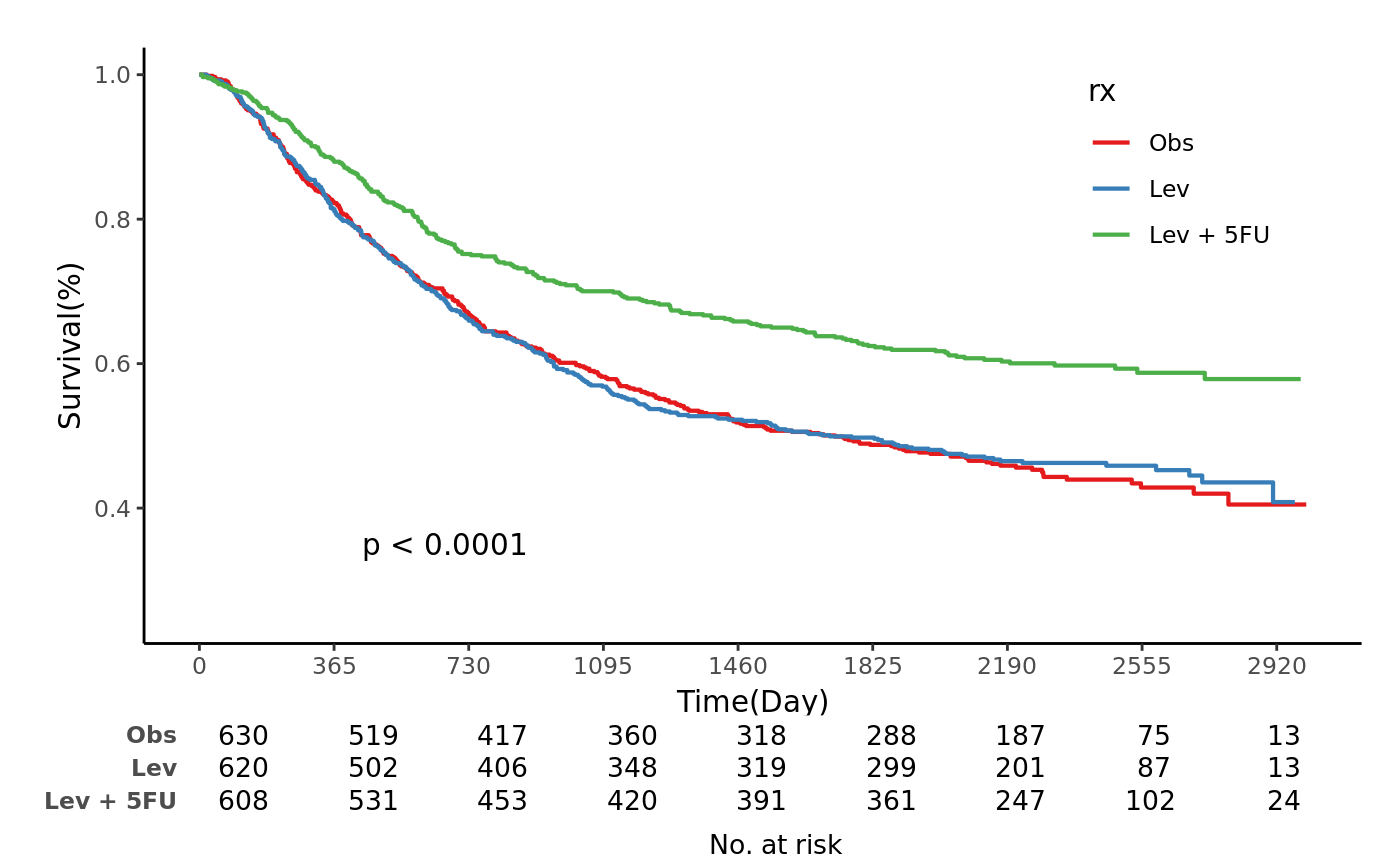
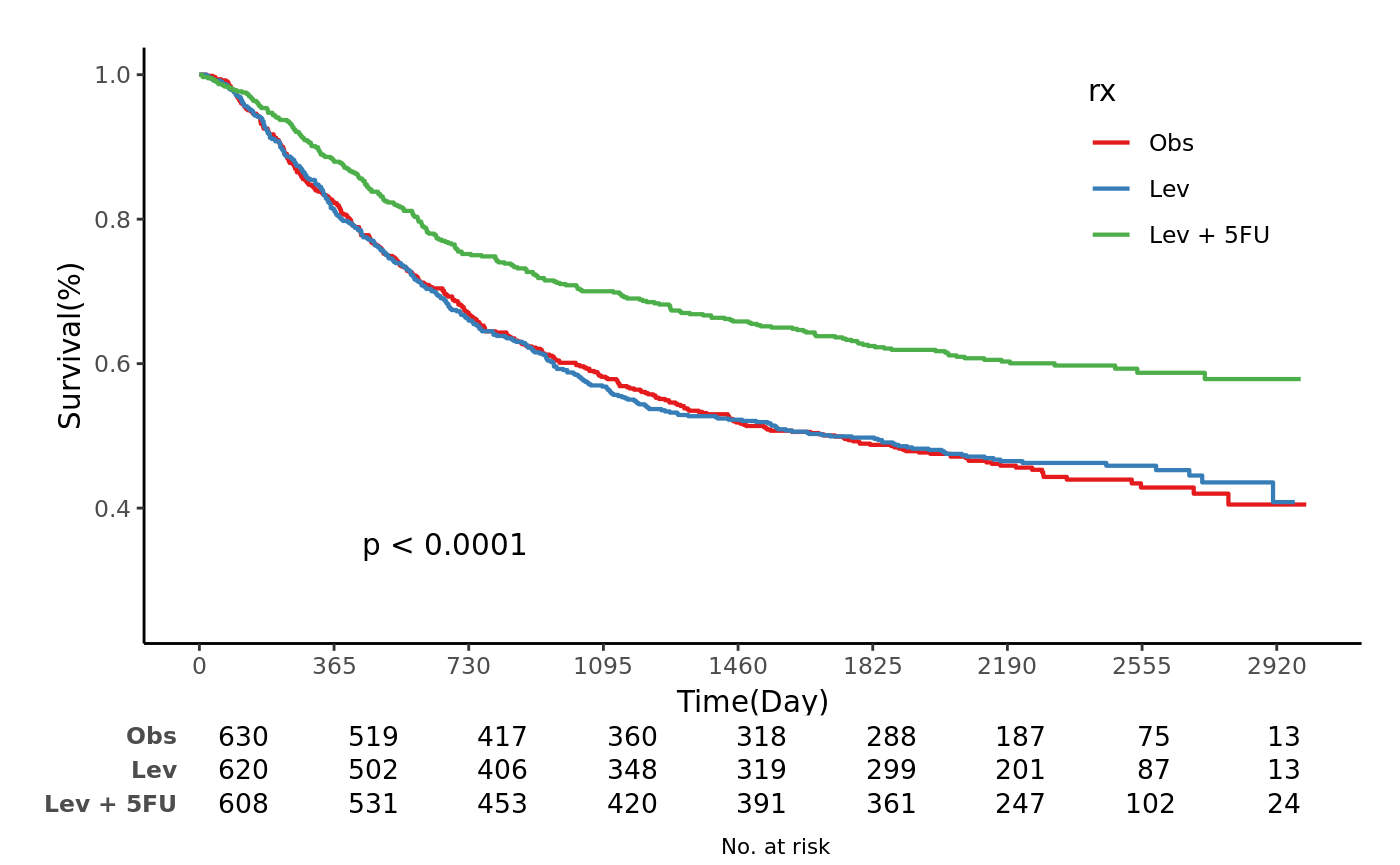
a

diff --git a/docs/reference/jskm.html b/docs/reference/jskm.html
@@ -131,9 +131,9 @@
   <span class='kw'>timeby</span> <span class='kw'>=</span> <span class='fu'><a href='https://www.rdocumentation.org/packages/base/topics/Round'>signif</a></span>(<span class='fu'><a href='https://www.rdocumentation.org/packages/base/topics/Extremes'>max</a></span>(<span class='no'>sfit</span>$<span class='no'>time</span>)/<span class='fl'>7</span>, <span class='fl'>1</span>), <span class='kw'>main</span> <span class='kw'>=</span> <span class='st'>""</span>, <span class='kw'>pval</span> <span class='kw'>=</span> <span class='fl'>FALSE</span>,
   <span class='kw'>marks</span> <span class='kw'>=</span> <span class='fl'>TRUE</span>, <span class='kw'>shape</span> <span class='kw'>=</span> <span class='fl'>3</span>, <span class='kw'>legend</span> <span class='kw'>=</span> <span class='fl'>TRUE</span>, <span class='kw'>legendposition</span> <span class='kw'>=</span> <span class='fu'><a href='https://www.rdocumentation.org/packages/base/topics/c'>c</a></span>(<span class='fl'>0.85</span>,
   <span class='fl'>0.8</span>), <span class='kw'>ci</span> <span class='kw'>=</span> <span class='fl'>FALSE</span>, <span class='kw'>subs</span> <span class='kw'>=</span> <span class='kw'>NULL</span>, <span class='kw'>label.nrisk</span> <span class='kw'>=</span> <span class='st'>"Numbers at risk"</span>,
-  <span class='kw'>linecols</span> <span class='kw'>=</span> <span class='st'>"Set1"</span>, <span class='kw'>dashed</span> <span class='kw'>=</span> <span class='fl'>FALSE</span>, <span class='kw'>cumhaz</span> <span class='kw'>=</span> <span class='no'>F</span>,
-  <span class='kw'>cluster.option</span> <span class='kw'>=</span> <span class='fu'><a href='https://www.rdocumentation.org/packages/base/topics/c'>c</a></span>(<span class='st'>"None"</span>, <span class='st'>"cluster"</span>, <span class='st'>"frailty"</span>), <span class='kw'>cluster.var</span> <span class='kw'>=</span> <span class='kw'>NULL</span>,
-  <span class='kw'>data</span> <span class='kw'>=</span> <span class='kw'>NULL</span>, <span class='no'>...</span>)</pre>
+  <span class='kw'>size.label.nrisk</span> <span class='kw'>=</span> <span class='fl'>10</span>, <span class='kw'>linecols</span> <span class='kw'>=</span> <span class='st'>"Set1"</span>, <span class='kw'>dashed</span> <span class='kw'>=</span> <span class='fl'>FALSE</span>,
+  <span class='kw'>cumhaz</span> <span class='kw'>=</span> <span class='no'>F</span>, <span class='kw'>cluster.option</span> <span class='kw'>=</span> <span class='fu'><a href='https://www.rdocumentation.org/packages/base/topics/c'>c</a></span>(<span class='st'>"None"</span>, <span class='st'>"cluster"</span>, <span class='st'>"frailty"</span>),
+  <span class='kw'>cluster.var</span> <span class='kw'>=</span> <span class='kw'>NULL</span>, <span class='kw'>data</span> <span class='kw'>=</span> <span class='kw'>NULL</span>, <span class='no'>...</span>)</pre>
     
     <h2 class="hasAnchor" id="arguments"><a class="anchor" href="#arguments"></a>Arguments</h2>
     <table class="ref-arguments">
@@ -208,7 +208,11 @@
     </tr>
     <tr>
       <th>label.nrisk</th>
-      <td><p>numbers at risk label. Default = "Numbers at risk"</p></td>
+      <td><p>Numbers at risk label. Default = "Numbers at risk"</p></td>
+    </tr>
+    <tr>
+      <th>size.label.nrisk</th>
+      <td><p>Font size of label.nrisk. Default = 10</p></td>
     </tr>
     <tr>
       <th>linecols</th>

diff --git a/docs/index.html b/docs/index.html
@@ -103,8 +103,7 @@
 <a class="sourceLine" id="cb2-6" data-line-number="6"><span class="co">#Plot the data</span></a>
 <a class="sourceLine" id="cb2-7" data-line-number="7"><span class="kw"><a href="reference/jskm.html">jskm</a></span>(fit)</a></code></pre></div>
 <p><img src="index_files/figure-html/unnamed-chunk-1-1.png" width="700"></p>
-<div class="sourceCode" id="cb3"><pre class="sourceCode r"><code class="sourceCode r"><a class="sourceLine" id="cb3-1" data-line-number="1"><span class="kw"><a href="reference/jskm.html">jskm</a></span>(fit, <span class="dt">table =</span> T, <span class="dt">pval =</span> T, <span class="dt">label.nrisk =</span> <span class="st">"No. at risk"</span>, <span class="dt">timeby =</span> <span class="dv">365</span>, <span class="dt">xlabs =</span> <span class="st">"Time(Day)"</span>, <span class="dt">ylabs =</span> <span class="st">"Survival(%)"</span>, <span class="dt">marks =</span> F, <span class="dt">xlims =</span> <span class="kw"><a href="https://www.rdocumentation.org/packages/base/topics/c">c</a></span>(<span class="dv">0</span>, <span class="dv">3000</span>), <span class="dt">ylims =</span> <span class="kw"><a href="https://www.rdocumentation.org/packages/base/topics/c">c</a></span>(<span class="fl">0.25</span>, <span class="dv">1</span>),</a>
-<a class="sourceLine" id="cb3-2" data-line-number="2">     <span class="dt">ystratalabs =</span> <span class="kw"><a href="https://www.rdocumentation.org/packages/base/topics/c">c</a></span>(<span class="st">"Obs"</span>, <span class="st">"Lev"</span>, <span class="st">"Lev + 5FU"</span>), <span class="dt">ystrataname =</span> <span class="st">"rx"</span>)</a></code></pre></div>
+<div class="sourceCode" id="cb3"><pre class="sourceCode r"><code class="sourceCode r"><a class="sourceLine" id="cb3-1" data-line-number="1"><span class="kw"><a href="reference/jskm.html">jskm</a></span>(fit, <span class="dt">table =</span> T, <span class="dt">pval =</span> T, <span class="dt">label.nrisk =</span> <span class="st">"No. at risk"</span>, <span class="dt">size.label.nrisk =</span> <span class="dv">8</span>, <span class="dt">timeby =</span> <span class="dv">365</span>, <span class="dt">xlabs =</span> <span class="st">"Time(Day)"</span>, <span class="dt">ylabs =</span> <span class="st">"Survival(%)"</span>, <span class="dt">marks =</span> F, <span class="dt">xlims =</span> <span class="kw"><a href="https://www.rdocumentation.org/packages/base/topics/c">c</a></span>(<span class="dv">0</span>, <span class="dv">3000</span>), <span class="dt">ylims =</span> <span class="kw"><a href="https://www.rdocumentation.org/packages/base/topics/c">c</a></span>(<span class="fl">0.25</span>, <span class="dv">1</span>), <span class="dt">ystratalabs =</span> <span class="kw"><a href="https://www.rdocumentation.org/packages/base/topics/c">c</a></span>(<span class="st">"Obs"</span>, <span class="st">"Lev"</span>, <span class="st">"Lev + 5FU"</span>), <span class="dt">ystrataname =</span> <span class="st">"rx"</span>)</a></code></pre></div>
 <p><img src="index_files/figure-html/unnamed-chunk-1-2.png" width="700"></p>
 </div>
 <div id="cumulative-hazard-1--survival-probability" class="section level3">

diff --git a/docs/news/index.html b/docs/news/index.html
@@ -122,16 +122,15 @@
 <h2 class="hasAnchor">
 <a href="#bug-fixes" class="anchor"></a>Bug fixes</h2>
 <ul>
-<li><p>Remove grey rectangle above the <code>Number at risk</code> table.</p></li>
-<li><p><strong>p-value</strong> position according <code>ylims</code> option.</p></li>
+<li><p>Remove grey rectangle above the <strong>Number at risk</strong> table.</p></li>
+<li><p>Change <strong>p-value</strong> position according <strong>ylims</strong> option.</p></li>
 </ul>
 </div>
 <div id="update" class="section level2">
 <h2 class="hasAnchor">
 <a href="#update" class="anchor"></a>Update</h2>
 <ul>
-<li>Add <strong>Numbers at risk</strong> label option: <code>label.nrisk</code>
-</li>
+<li>Add <strong>Numbers at risk</strong> label option to <code>jskm</code>: <code>label.nrisk</code>, <code>size.label.nrisk</code>.</li>
 </ul>
 </div>
 </div>

diff --git a/NEWS.md b/NEWS.md
@@ -2,13 +2,13 @@
 
 ## Bug fixes
 
-* Remove grey rectangle above the `Number at risk` table.
+* Remove grey rectangle above the **Number at risk** table.
 
-* **p-value** position according `ylims` option.
+* Change **p-value** position according **ylims** option.
 
 ## Update
 
-* Add **Numbers at risk** label option: `label.nrisk`
+* Add **Numbers at risk** label option to `jskm`: `label.nrisk`, `size.label.nrisk`.
 
 # jskm 0.2.4
 
